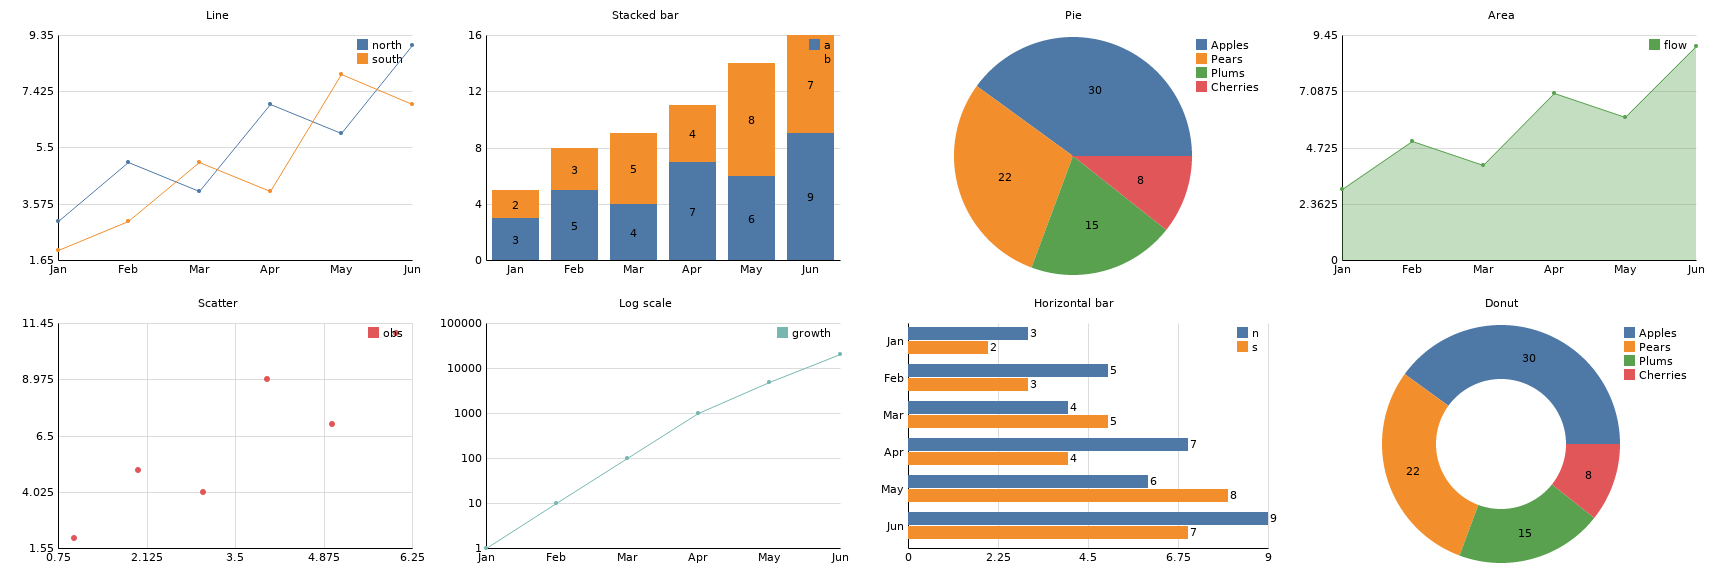
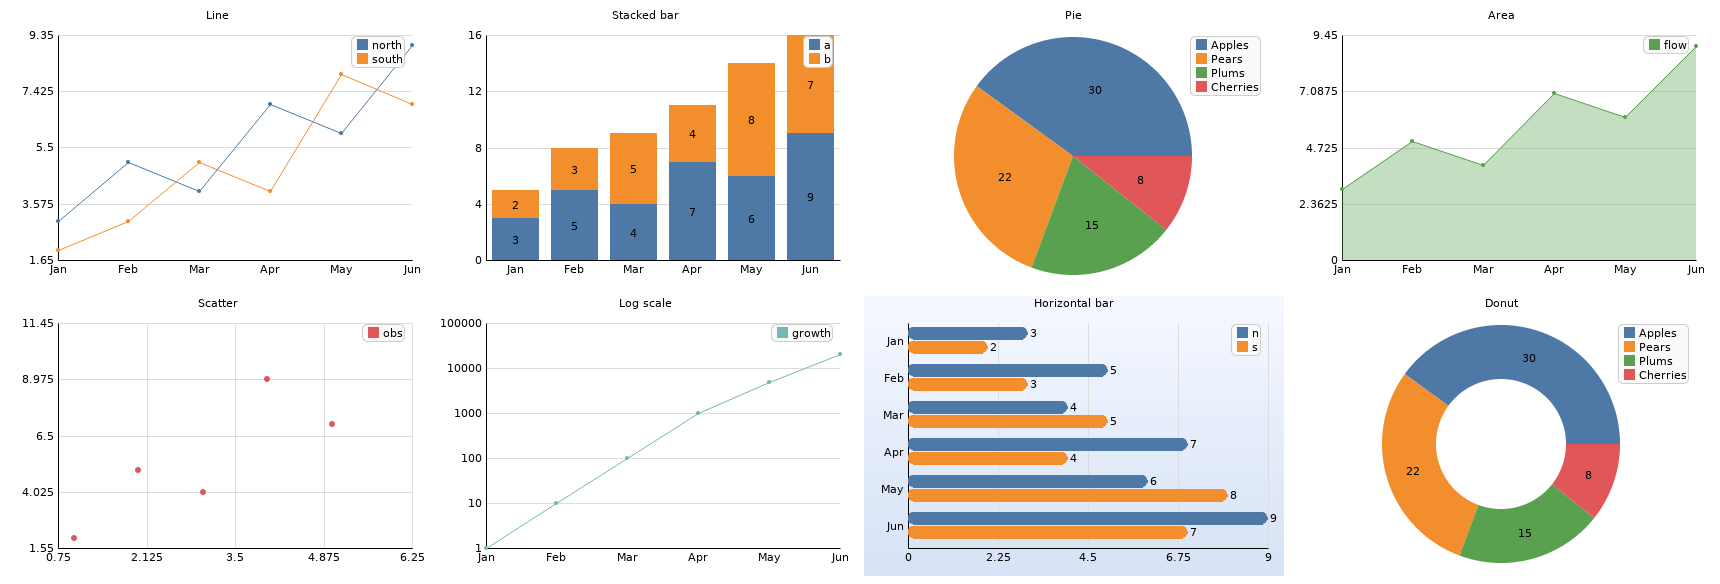
feat: chart gradient backgrounds, rounded bars, legend panel
Use the new gradient/rounded-rectangle primitives in the charting layer:

- IChartSetBackgroundGradient(chart, top, bottom): fill the chart background
  with a vertical gradient instead of a flat color.
- IChartSetBarRadius(chart, radius): round the corners of grouped bar/hbar
  bars (stacked bars stay square).
- The legend now sits on a light rounded panel with a thin border, so it reads
  cleanly over a gradient background (and tidies it over a flat one).

Exposed in Python (Chart.set_background_gradient / set_bar_radius). The README
chart showcase is regenerated; its horizontal-bar panel now uses a gradient
background and rounded bars.

Tests: a chart with a gradient background + rounded bars renders and its top
vs bottom background rows differ; bad-handle checks for the two new setters
(C); a matching Python case.

diff --git a/src/IChart.c b/src/IChart.c
@@ -85,6 +85,28 @@ static IColor _chart_grid_color ( void )
   return ( grid );
 }
 
+static IColor _chart_panel_color ( void )
+{
+  static IColor c;
+  static int init = 0;
+  if ( !init ) {
+    c = IAllocColor ( 250, 250, 250 );
+    init = 1;
+  }
+  return ( c );
+}
+
+static IColor _chart_panel_border ( void )
+{
+  static IColor c;
+  static int init = 0;
+  if ( !init ) {
+    c = IAllocColor ( 205, 205, 205 );
+    init = 1;
+  }
+  return ( c );
+}
+
 /* ------------------------------------------------------------- lifecycle */
 
 IChart ICreateChart ( IChartType type, unsigned int width,
@@ -265,6 +287,26 @@ IError IChartSetLegend ( IChart chart, int on )
   if ( !c )
     return ( IInvalidChart );
   c->show_legend = on ? 1 : 0;
+  return ( INoError );
+}
+
+IError IChartSetBackgroundGradient ( IChart chart, IColor top, IColor bottom )
+{
+  IChartP *c = _chart_valid ( chart );
+  if ( !c )
+    return ( IInvalidChart );
+  c->background = top;
+  c->bg_color2 = bottom;
+  c->bg_gradient = 1;
+  return ( INoError );
+}
+
+IError IChartSetBarRadius ( IChart chart, int radius )
+{
+  IChartP *c = _chart_valid ( chart );
+  if ( !c )
+    return ( IInvalidChart );
+  c->bar_radius = ( radius < 0 ) ? 0 : radius;
   return ( INoError );
 }
 
@@ -579,6 +621,15 @@ static void _chart_legend ( IImage img, IGC gc, IChartP *c,
   by = lay->y0 + 4;
   if ( bx < lay->x0 )
     bx = lay->x0;
+
+  /* A light rounded panel behind the entries; helps the legend read over a
+     gradient background and tidies it over a flat one. */
+  ISetForeground ( gc, _chart_panel_color () );
+  IFillRoundRectangle ( img, gc, bx - 3, by - 3, (unsigned int) boxw,
+    (unsigned int) ( count * rowh + 4 ), 5 );
+  ISetForeground ( gc, _chart_panel_border () );
+  IDrawRoundRectangle ( img, gc, bx - 3, by - 3, (unsigned int) boxw,
+    (unsigned int) ( count * rowh + 4 ), 5 );
 
   for ( i = 0; i < count; i++ ) {
     int ry = by + i * rowh;
@@ -928,7 +979,11 @@ static void _chart_plot_bar ( IImage img, IGC gc, IChartP *c,
       if ( h < 1 )
         h = 1;
       ISetForeground ( gc, ser->color );
-      IFillRectangle ( img, gc, bx, top, (unsigned int) w, (unsigned int) h );
+      if ( c->bar_radius > 0 )
+        IFillRoundRectangle ( img, gc, bx, top, (unsigned int) w,
+          (unsigned int) h, (unsigned int) c->bar_radius );
+      else
+        IFillRectangle ( img, gc, bx, top, (unsigned int) w, (unsigned int) h );
       if ( c->value_labels && c->font ) {
         ISetForeground ( gc, IBLACK_PIXEL );
         _chart_draw_value ( img, gc, c, bx + w / 2, top - 2, ser->values[i] );
@@ -1083,8 +1138,12 @@ static void _chart_plot_hbar ( IImage img, IGC gc, IChartP *c,
       if ( w < 1 )
         w = 1;
       ISetForeground ( gc, ser->color );
-      IFillRectangle ( img, gc, left, by, (unsigned int) w,
-        (unsigned int) hh );
+      if ( c->bar_radius > 0 )
+        IFillRoundRectangle ( img, gc, left, by, (unsigned int) w,
+          (unsigned int) hh, (unsigned int) c->bar_radius );
+      else
+        IFillRectangle ( img, gc, left, by, (unsigned int) w,
+          (unsigned int) hh );
       if ( c->value_labels && c->font ) {
         char buf[32];
         int tw, lx;
@@ -1184,9 +1243,15 @@ IImage IChartRender ( IChart chart )
   if ( c->font )
     ISetFont ( gc, c->font );
 
-  ISetForeground ( gc, c->background );
-  IFillRectangle ( img, gc, 0, 0, (unsigned int) c->width,
-    (unsigned int) c->height );
+  if ( c->bg_gradient ) {
+    IFillLinearGradient ( img, 0, 0, (unsigned int) c->width,
+      (unsigned int) c->height, c->background, c->bg_color2, 90.0 );
+  }
+  else {
+    ISetForeground ( gc, c->background );
+    IFillRectangle ( img, gc, 0, 0, (unsigned int) c->width,
+      (unsigned int) c->height );
+  }
 
   fh = _chart_font_h ( c );
 

diff --git a/tests/test_chart.c b/tests/test_chart.c
@@ -265,6 +265,32 @@ TEST chart_display_options ( void )
   PASS ();
 }
 
+TEST chart_gradient_and_rounded_bars ( void )
+{
+  IChart c = ICreateChart ( ICHART_BAR, 200, 140 );
+  double a[3] = { 2.0, 4.0, 3.0 };
+  IImage img;
+  unsigned int r1, g1, b1, r2, g2, b2;
+
+  ASSERT ( c != NULL );
+  ASSERT_EQ ( INoError, IChartSetBackgroundGradient ( c,
+                          IAllocColor ( 240, 245, 255 ),
+                          IAllocColor ( 200, 215, 240 ) ) );
+  ASSERT_EQ ( INoError, IChartSetBarRadius ( c, 5 ) );
+  IChartAddSeries ( c, "a", a, 3, IAllocColor ( 50, 100, 200 ) );
+  img = IChartRender ( c );
+  ASSERT ( img != NULL );
+  ASSERT ( has_drawn_pixel ( img ) );
+  /* The gradient makes the top and bottom background rows differ. */
+  IGetPixel ( img, 1, 1, &r1, &g1, &b1 );
+  IGetPixel ( img, 1, 138, &r2, &g2, &b2 );
+  ASSERT ( r1 != r2 || g1 != g2 || b1 != b2 );
+
+  IFreeImage ( img );
+  IFreeChart ( c );
+  PASS ();
+}
+
 TEST chart_setters_reject_bad_handle ( void )
 {
   ASSERT_EQ ( IInvalidChart, IChartSetStacked ( NULL, 1 ) );
@@ -273,6 +299,8 @@ TEST chart_setters_reject_bad_handle ( void )
   ASSERT_EQ ( IInvalidChart, IChartSetMarkers ( NULL, 1 ) );
   ASSERT_EQ ( IInvalidChart, IChartSetGrid ( NULL, 1 ) );
   ASSERT_EQ ( IInvalidChart, IChartSetLegend ( NULL, 1 ) );
+  ASSERT_EQ ( IInvalidChart, IChartSetBackgroundGradient ( NULL, 0, 0 ) );
+  ASSERT_EQ ( IInvalidChart, IChartSetBarRadius ( NULL, 4 ) );
   PASS ();
 }
 
@@ -344,6 +372,7 @@ SUITE ( chart )
   RUN_TEST ( hbar_chart_renders );
   RUN_TEST ( donut_chart_renders );
   RUN_TEST ( chart_display_options );
+  RUN_TEST ( chart_gradient_and_rounded_bars );
   RUN_TEST ( chart_setters_reject_bad_handle );
   RUN_TEST ( chart_explicit_range );
   RUN_TEST ( chart_setters_and_titles );

diff --git a/python/tests/test_ilib.py b/python/tests/test_ilib.py
@@ -595,6 +595,20 @@ class Charting(unittest.TestCase):
             finally:
                 img.free()
 
+    def test_gradient_background_and_rounded_bars(self):
+        with ilib.Chart(ilib.ChartType.BAR, 200, 140) as c:
+            c.set_background_gradient(ilib.alloc_color(240, 245, 255),
+                                      ilib.alloc_color(200, 215, 240))
+            c.set_bar_radius(5)
+            c.add_series([2, 4, 3], label="a",
+                         color=ilib.alloc_color(50, 100, 200))
+            img = c.render()
+            try:
+                # gradient => top and bottom background rows differ
+                self.assertNotEqual(img.get_pixel(1, 1), img.get_pixel(1, 138))
+            finally:
+                img.free()
+
     def test_stacked_bar(self):
         with ilib.Chart(ilib.ChartType.BAR, 220, 160) as c:
             c.set_stacked(True)

diff --git a/src/Ichart.h b/src/Ichart.h
@@ -112,6 +112,19 @@ IError IChartSetGrid ( IChart chart, int on );
 IError IChartSetLegend ( IChart chart, int on );
 
 /**
+ * Fill the chart background with a vertical gradient from top to bottom
+ * instead of a flat color. Overrides IChartSetBackground().
+ */
+IError IChartSetBackgroundGradient ( IChart chart, IColor top, IColor bottom );
+
+/**
+ * Round the corners of bar / horizontal-bar bars to the given pixel radius
+ * (clamped to half the bar size). 0 (the default) draws square bars. Applies to
+ * grouped bars; stacked bars stay square.
+ */
+IError IChartSetBarRadius ( IChart chart, int radius );
+
+/**
  * Add a data series. values[] holds count values; label and color are used in
  * the legend (and as the line/bar color). The data is copied. For a pie chart
  * the first series' values are the slice sizes.

diff --git a/python/src/ilib/chart.py b/python/src/ilib/chart.py
@@ -120,6 +120,17 @@ class Chart:
         check(lib.IChartSetLegend(self._as_parameter_, 1 if on else 0))
         return self
 
+    def set_background_gradient(self, top, bottom):
+        """Fill the background with a vertical ``top``->``bottom`` gradient."""
+        check(lib.IChartSetBackgroundGradient(self._as_parameter_, int(top),
+                                              int(bottom)))
+        return self
+
+    def set_bar_radius(self, radius):
+        """Round bar/hbar corners to ``radius`` pixels (0 = square)."""
+        check(lib.IChartSetBarRadius(self._as_parameter_, int(radius)))
+        return self
+
     def add_series(self, values, label=None, color=0):
         """Add a data series (a sequence of values) with a legend label/color."""
         values = [float(v) for v in values]

diff --git a/docs/samples/charts.py b/docs/samples/charts.py
@@ -99,6 +99,9 @@ def main():
     hbar.set_title("Horizontal bar")
     hbar.set_categories(months)
     hbar.set_value_labels(True)
+    hbar.set_bar_radius(5)  # rounded bars
+    hbar.set_background_gradient(ilib.alloc_color(245, 248, 255),
+                                 ilib.alloc_color(214, 226, 246))
     hbar.add_series([3, 5, 4, 7, 6, 9], "n", _color(0))
     hbar.add_series([2, 3, 5, 4, 8, 7], "s", _color(1))
     charts.append(hbar.render())

diff --git a/src/IchartP.h b/src/IchartP.h
@@ -44,6 +44,9 @@ typedef struct {
   int markers;      /* line/area: draw a marker at each point (default on) */
   int show_grid;    /* draw gridlines (default on) */
   int show_legend;  /* draw the legend (default on) */
+  int bg_gradient;  /* fill background with a top->bottom gradient */
+  IColor bg_color2; /* bottom color of the background gradient */
+  int bar_radius;   /* corner radius for bar/hbar bars (0 = square) */
 } IChartP;
 
 #endif /* _ichartp_h */

diff --git a/python/src/ilib/_ffi.py b/python/src/ilib/_ffi.py
@@ -233,6 +233,8 @@ IError IChartSetValueLabels(IChart chart, int on);
 IError IChartSetMarkers(IChart chart, int on);
 IError IChartSetGrid(IChart chart, int on);
 IError IChartSetLegend(IChart chart, int on);
+IError IChartSetBackgroundGradient(IChart chart, IColor top, IColor bottom);
+IError IChartSetBarRadius(IChart chart, int radius);
 IError IChartAddSeries(IChart chart, const char *label, const double *values,
                        int count, IColor color);
 IError IChartAddXYSeries(IChart chart, const char *label,

diff --git a/CHANGELOG.md b/CHANGELOG.md
@@ -10,6 +10,12 @@ A modernization effort brought the late-1990s codebase up to current practice
 without breaking the public API.
 
 ### Added
+- Charting polish using the new primitives: `IChartSetBackgroundGradient` (a
+  vertical gradient background), `IChartSetBarRadius` (rounded-corner bars for
+  bar/hbar charts), and a light rounded panel drawn behind every legend so it
+  reads cleanly (especially over a gradient). Exposed in Python
+  (`Chart.set_background_gradient` / `set_bar_radius`); the README showcase is
+  regenerated to feature them.
 - Gradient fills and rounded rectangles: `IFillLinearGradient` (any angle) and
   `IFillRadialGradient` interpolate two colors over a region; `IDrawRoundRectangle`
   / `IFillRoundRectangle` draw rectangles with rounded corners (built on the

diff --git a/README.md b/README.md
@@ -68,9 +68,9 @@ The drawing API is modeled on a subset of the X11 graphics functions:
 - **Charting:** a small charting layer (`Ichart.h`) builds line, bar (grouped
   or stacked, vertical or horizontal), pie, donut, area and scatter charts —
   with title, axes, gridlines (linear or log scale), tick/category labels,
-  optional value labels/point markers and a legend (each toggleable) — and
-  renders them to an image. The `ilib-chart` tool drives it from the command
-  line:
+  optional value labels/point markers and a legend (each toggleable), plus
+  optional gradient backgrounds and rounded-corner bars — and renders them to
+  an image. The `ilib-chart` tool drives it from the command line:
 
   ```sh
   printf 'month,2023,2024\nJan,3,2\nFeb,5,3\nMar,4,5\n' \